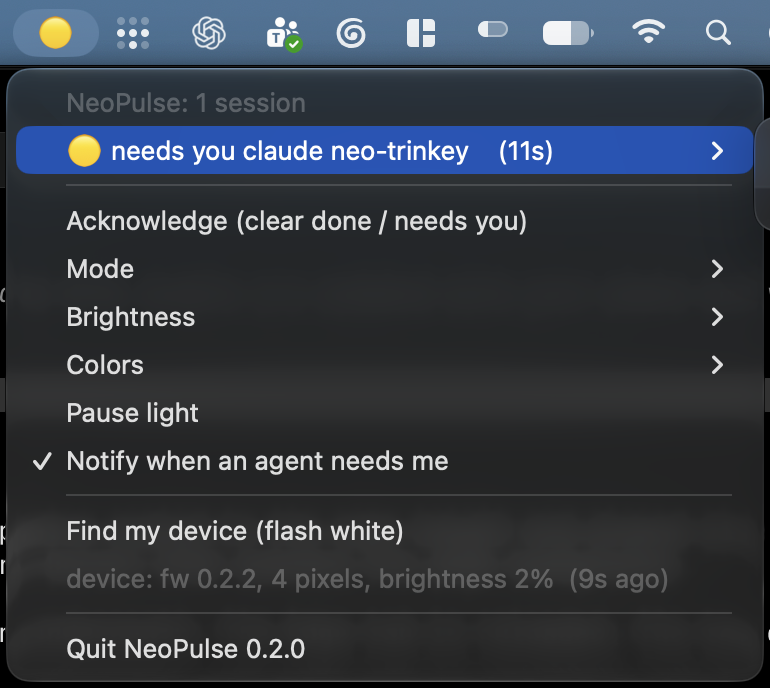
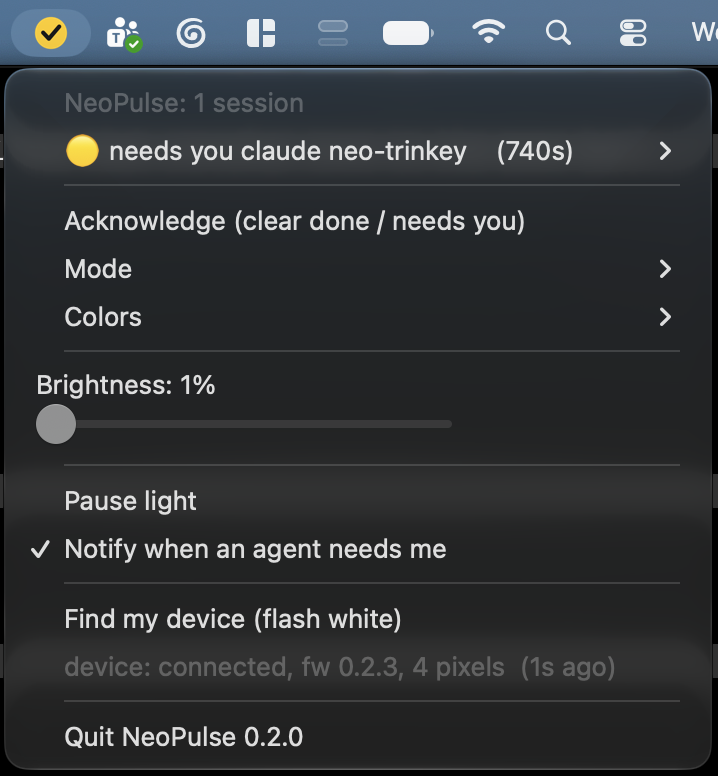
README: new menu-bar screenshot and text for the slider and the connectivity mark
Also align the brightness title and slider with the menu's text column and let
them stretch to the menu width.

diff --git a/neopulse/menubar.py b/neopulse/menubar.py
@@ -151,16 +151,18 @@ def main() -> None:
                 self.mode_menu.add(it)
             # one custom-view item: a title in normal menu text (a callback-less MenuItem would be greyed
             # out and read as disabled) with the slider under it
-            from AppKit import NSColor, NSFont, NSMakeRect, NSTextField, NSView
+            from AppKit import NSColor, NSFont, NSMakeRect, NSTextField, NSView, NSViewWidthSizable
             self.bright_slider = rumps.SliderMenuItem(value=60, min_value=1, max_value=100,
                                                       callback=self.on_bright_slide, dimensions=(200, 20))
             box = NSView.alloc().initWithFrame_(NSMakeRect(0, 0, 240, 46))
             self.bright_text = NSTextField.labelWithString_("Brightness")
             self.bright_text.setFont_(NSFont.menuFontOfSize_(0))
             self.bright_text.setTextColor_(NSColor.labelColor())
-            self.bright_text.setFrame_(NSMakeRect(14, 25, 212, 18))
+            self.bright_text.setFrame_(NSMakeRect(28, 25, 192, 18))   # x matches the menu's text column
             self.bright_slider._menuitem.setView_(None)   # detach first, or setView_(box) pulls the slider out of box
-            self.bright_slider._slider.setFrame_(NSMakeRect(14, 3, 212, 20))
+            self.bright_slider._slider.setFrame_(NSMakeRect(28, 3, 192, 20))
+            for v in (box, self.bright_text, self.bright_slider._slider):
+                v.setAutoresizingMask_(NSViewWidthSizable)   # stretch to the menu's width
             box.addSubview_(self.bright_text)
             box.addSubview_(self.bright_slider._slider)
             self.bright_slider._menuitem.setView_(box)

diff --git a/README.md b/README.md
@@ -55,14 +55,15 @@ mode without hardware in [docs/simulator.html](docs/simulator.html)
 
 ## Menu-bar app (macOS)
 
-![NeoPulse menu-bar app: icon showing the most urgent state, and the menu with the session list, acknowledge, mode, brightness, colors, pause, notifications and device info](docs/menubar.png)
+![NeoPulse menu-bar app: icon showing the most urgent state, and the menu with the session list, acknowledge, mode, colors, a brightness slider, pause, notifications and device info](docs/menubar.png)
 
 `pip install -e '.[mac]'` then `neopulse menubar` (or `neopulse setup`, which installs it as a
-login item when rumps is present). The icon is the most urgent state: 🔵 working, 🟡 needs you,
-🔴 blocked, 🟢 done, with a count when more than one agent is active. The menu lists every
-session with its state, provider and folder (open it in Terminal or Finder), and offers
-acknowledge, mode, brightness, color profile, pause, and a native notification whenever an
-agent starts needing you. The menu-bar app is the daemon: it owns the serial port, so run either
+login item when rumps is present). The icon is a disc in the color of the most urgent state
+(blue working, yellow needs you, red blocked, green done), with a count when more than one agent
+is active. A tick inside the disc means the device is connected; a cross means it is not. The
+menu lists every session with its state, provider and folder (open it in Terminal or Finder),
+and offers acknowledge, mode, color profile, a brightness slider (1 to 100), pause, and a native
+notification whenever an agent starts needing you. The menu-bar app is the daemon: it owns the serial port, so run either
 it or `neopulse monitor run`, not both.
 
 ### Pixels and pads
